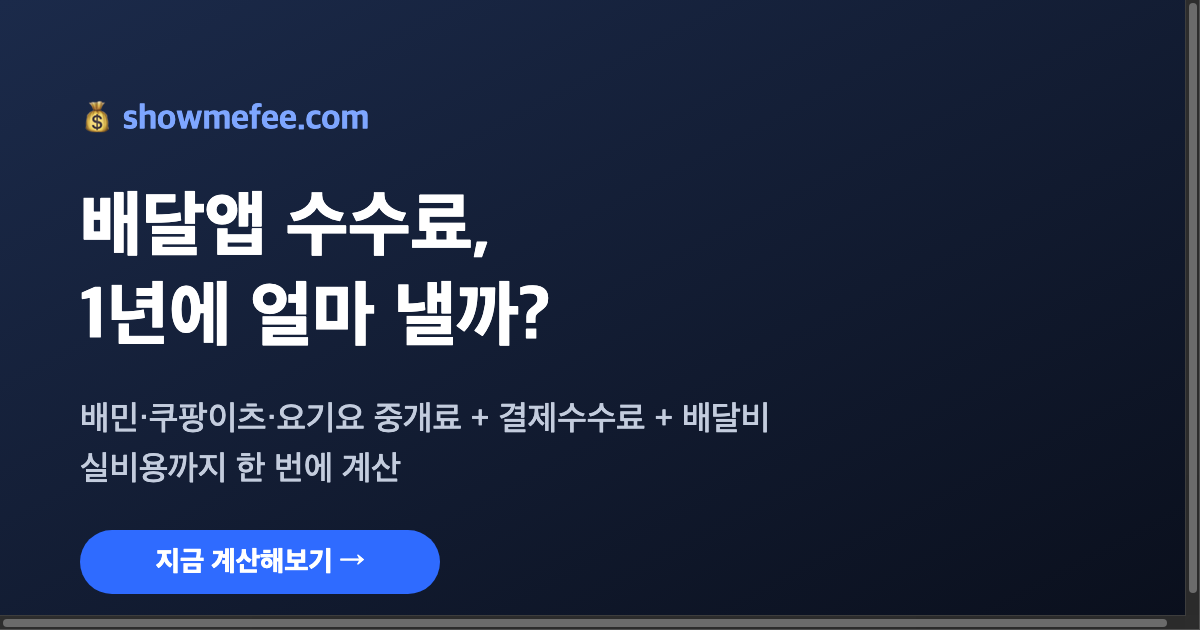
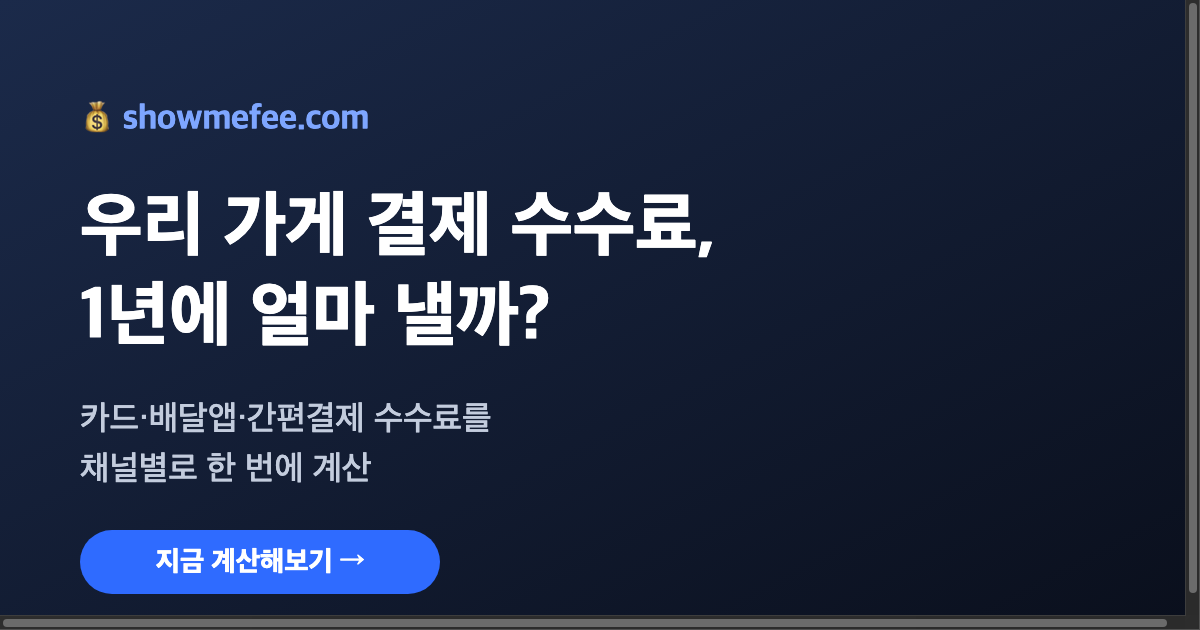
fix: 배달앱 전용→종합 결제 수수료 계산기로 브랜딩 정정 (title/OG/SEO/공유문구)

Changed region(s): [[0.0617, 0.3016, 0.5858, 0.4222], [0.0617, 0.6333, 0.6475, 0.7841]]

diff --git a/index.html b/index.html
@@ -4,16 +4,16 @@
     <meta charset="UTF-8" />
     <link rel="icon" type="image/svg+xml" href="/favicon.svg" />
     <meta name="viewport" content="width=device-width, initial-scale=1.0" />
-    <meta name="description" content="배달의민·쿠팡이츠·요기요 수수료와 카드·간편결제 수수료를 한 번에. 월매출과 주문건수만 넣으면 중개료+결제수수료+배달비 실비용을 계산해드립니다." />
-    <meta name="keywords" content="배달앱 수수료,배민 수수료 계산기,쿠팡이츠 수수료,요기요 수수료,카드 수수료 계산기,자영업자 수수료" />
+    <meta name="description" content="카드·배달앱·간편결제 등 모든 결제 채널의 수수료를 한 번에. 업종과 월매출만 넣으면 우리 가게가 내는 결제 수수료를 계산해드립니다." />
+    <meta name="keywords" content="결제 수수료 계산기,카드 수수료 계산기,가맹점 수수료,자영업자 수수료,배달앱 수수료,간편결제 수수료,사업자 수수료" />
     <meta name="robots" content="index,follow" />
     <link rel="canonical" href="https://showmefee.com/" />
-    <title>배달앱 수수료 계산기 | 배민·쿠팡이츠 실비용 한눈에</title>
+    <title>결제 수수료 계산기 | 우리 가게 수수료 한눈에</title>
 
     <!-- Open Graph -->
     <meta property="og:type" content="website" />
-    <meta property="og:title" content="배달앱 수수료 계산기" />
-    <meta property="og:description" content="배달의민족·쿠팡이츠·요기요 수수료와 카드·간편결제 수수료를 한 번에. 월매출과 주문건수만 넣으면 중개료+결제수수료+배달비 실비용을 계산해드립니다." />
+    <meta property="og:title" content="결제 수수료 계산기" />
+    <meta property="og:description" content="카드·배달앱·간편결제 등 모든 결제 수수료를 한 번에. 업종과 월매출만 넣으면 우리 가게가 1년에 내는 수수료를 계산해드립니다." />
     <meta property="og:site_name" content="showmefee" />
     <meta property="og:locale" content="ko_KR" />
     <meta property="og:url" content="https://showmefee.com/" />
@@ -23,8 +23,8 @@
 
     <!-- Twitter Card -->
     <meta name="twitter:card" content="summary_large_image" />
-    <meta name="twitter:title" content="배달앱 수수료 계산기" />
-    <meta name="twitter:description" content="배달의민족·쿠팡이츠·요기요 수수료와 카드·간편결제 수수료를 한 번에. 월매출과 주문건수만 넣으면 중개료+결제수수료+배달비 실비용을 계산해드립니다." />
+    <meta name="twitter:title" content="결제 수수료 계산기" />
+    <meta name="twitter:description" content="카드·배달앱·간편결제 등 모든 결제 수수료를 한 번에. 업종과 월매출만 넣으면 우리 가게가 1년에 내는 수수료를 계산해드립니다." />
     <meta name="twitter:image" content="https://showmefee.com/og-image.png" />
   </head>
   <body>

diff --git a/src/App.tsx b/src/App.tsx
@@ -41,8 +41,8 @@ export default function App() {
   // 링크 공유 (심리테스트 방식): 모바일=공유창, PC=링크 복사
   async function shareLink() {
     const shareData = {
-      title: '배달앱 수수료 계산기 | showmefee',
-      text: '배달앱·카드 수수료 1년에 얼마 내는지 알아? 나도 계산해봤어 👇',
+      title: '결제 수수료 계산기 | showmefee',
+      text: '우리 가게 결제 수수료 1년에 얼마 내는지 알아? 나도 계산해봤어 👇',
       url: SITE_URL,
     };
     try {
@@ -457,18 +457,18 @@ export default function App() {
 
       {/* SEO / 안내 콘텐츠 (검색 노출용) */}
       <section className="seo-content">
-        <h2>배달앱 수수료 계산기</h2>
+        <h2>결제 수수료 계산기</h2>
         <p>
-          배달의민족, 쿠팡이츠, 요기요를 사용하는 자영업자라면 실제로 매출의 상당 부분이
-          수수료로 나갑니다. 이 계산기는 <b>중개이용료</b>뿐 아니라 <b>결제수수료</b>와
-          <b> 건당 배달비</b>까지 합산해 배달앱 <b>실비용</b>을 계산합니다.
+          카드, 배달앱, 간편결제 등 가맹점이 사용하는 모든 결제 채널에는 수수료가 붙습니다.
+          이 계산기는 업종과 월매출, 채널 비중만 입력하면 우리 가게가 <b>1년에 내는 결제 수수료</b>를
+          채널별로 나눠서 계산해줍니다.
         </p>
         <h3>이런 걸 계산할 수 있어요</h3>
         <ul>
-          <li>배민·쿠팡이츠·요기요 중개수수료 (2025 상생요금제 기준)</li>
           <li>카드 우대수수료 (연매출 구간별 0.5~2.0%)</li>
           <li>간편결제 수수료</li>
-          <li>배달앱 실비용 = 중개료 + 결제수수료 + 배달비</li>
+          <li>배달앱 수수료 (배민·쿠팡이츠·요기요, 중개료+결제수수료+배달비 실비용)</li>
+          <li>채널별 수수료 비교 — 어디서 가장 많이 나가는지</li>
         </ul>
         <p className="seo-note">
           ※ 수수료율은 공개 자료 기반 추정치이며, 실제 요율은 계약·가맹점 등급에 따라 달라질 수 있습니다.
